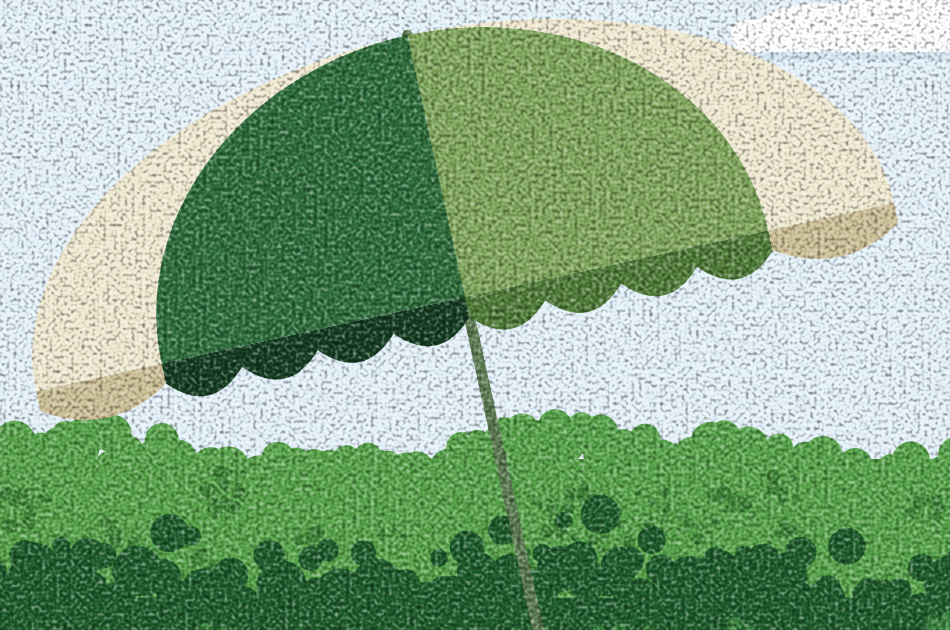
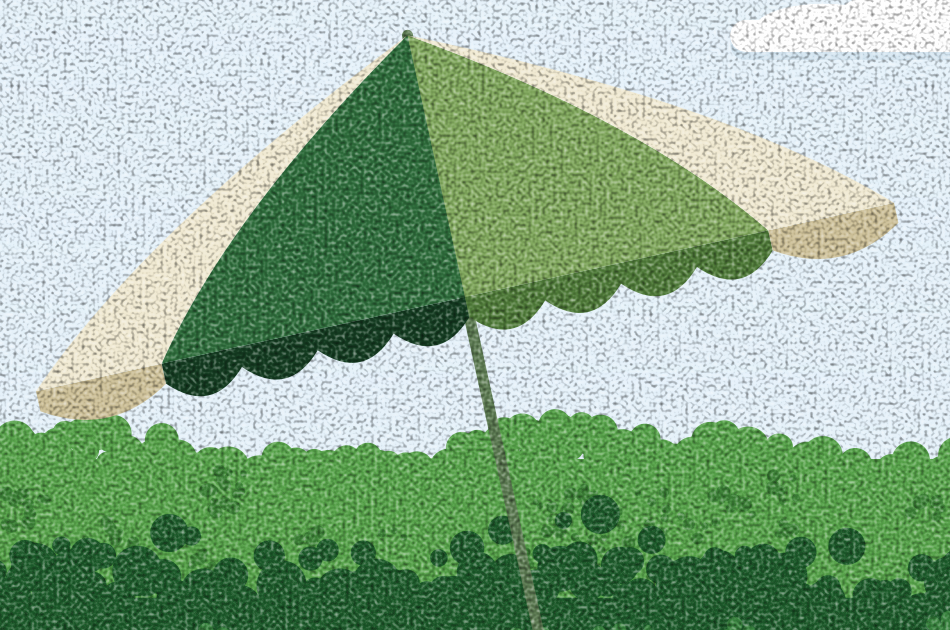
Parasols : toile tendue en pointe, plus un dôme
Les proportions relevées étaient justes — rx, ry, positions — mais la forme
ne l'était pas : des méridiens en quarts d'ellipse donnaient une coupole
ronde, un demi-ballon, et à encombrement égal un dôme rond a l'air plus gros
qu'un cône. D'où l'impression de parasols hors d'échelle alors que leurs
mesures collaient au modèle.

Le modèle est une toile tendue : les pentes filent presque droit du bord
vers le sommet, à peine bombées, et se rejoignent en pointe. Chaque méridien
est désormais une seule quadratique dont le point de contrôle est légèrement
au-dessus de la corde — une flèche d'un dixième de la hauteur, pas de la
moitié. Même encombrement, même relevé, silhouette triangulaire.

Claude-Session: https://claude.ai/code/session_015un2t2xRvThoKm9jAu6CXK

Changed region(s): [[0.0305, 0.0302, 0.9463, 0.6032]]

diff --git a/illustration/parasols.py b/illustration/parasols.py
@@ -528,17 +528,25 @@ def une_coupole(nom, cx, y_bord, rx, fx, fy, indent=4, n=4):
     sommet = (X0, Y0 - ry)
     jupe_h = 0.17 * ry
 
+    # LA PENTE EST PRESQUE DROITE, LE SOMMET EST UNE POINTE. Le premier essai
+    # prenait des quarts d'ellipse : une coupole ronde, un demi-ballon. Le
+    # modele est une TOILE TENDUE - ses pentes filent droit du bord vers le
+    # sommet, a peine bombees, et se rejoignent en pointe. Chaque meridien
+    # est donc une seule quadratique dont le controle est LEGEREMENT au-dessus
+    # de la corde : la fleche vaut un dixieme de la hauteur, pas la moitie.
+    def meridien(x_dep, vers_sommet=True):
+        Cq = T((x_dep + (X0 - x_dep) * 0.32, Y0 - ry * 0.50))
+        cible = T(sommet) if vers_sommet else T((x_dep, Y0))
+        return u'Q%.1f %.1f %.1f %.1f' % (Cq[0], Cq[1], cible[0], cible[1])
+
     toile, jupe = [], []
     for k in range(n):
         xa, xb = xs[k], xs[k + 1]
         A, B = T((xa, Y0)), T((xb, Y0))
-        montee = cubiques((X0, Y0), (xb - X0, 0.0), (0.0, -ry),
-                          0.0, math.pi / 2, T)
-        descente = cubiques((X0, Y0), (xa - X0, 0.0), (0.0, -ry),
-                            math.pi / 2, 0.0, T)
         toile.append((GORES[k % len(GORES)],
                       u'M%.1f %.1f L%.1f %.1f %s %s Z'
-                      % (A[0], A[1], B[0], B[1], montee, descente)))
+                      % (A[0], A[1], B[0], B[1],
+                         meridien(xb, True), meridien(xa, False))))
 
         # LA JUPE : le bord haut droit, puis des festons qui pendent. Le
         # nombre de festons suit la largeur du fuseau - les fuseaux du

diff --git a/illustration/METHODE.md b/illustration/METHODE.md
@@ -53,7 +53,7 @@ une fois l'image sous les yeux.
 
 | | |
 |---|---|
-| **Parasol** (4ᵉ référence, retenue) | une **coupole à festons** : 4 fuseaux par azimut (crème étroit / vert sombre / vert clair / crème), bombé **ry/rx = 0,61**, jupe à festons de 0,17 ry dans des tons **assombris** — c'est l'intérieur de la toile vu par en dessous. Mât penché d'un bloc, l'angle découle du relevé (pied et centre de toile mesurés). |
+| **Parasol** (4ᵉ référence, retenue) | une **toile tendue en pointe**, pas un dôme : pentes presque droites (flèche ≈ 0,1 × la hauteur), sommet pointu, ry/rx = 0,61. 4 fuseaux par azimut (crème étroit / vert sombre / vert clair / crème), jupe à festons de 0,17 ry en tons **assombris** — l'intérieur de la toile vu par en dessous. Mât penché d'un bloc, l'angle découle du relevé. |
 | **Parasol** (1ʳᵉ référence, conservé en code) | un **éventail** : demi-lune en secteurs égaux issus du milieu du bord droit — `un_eventail()`. |
 | **Bord bas** | une **droite** franche. Pas de feston, pas de vaguelette. |
 | **Contours** | **aucun**. Pas de liseré, pas de couture tracée, pas d'embout. Les secteurs ne sont que des changements de couleur. |
@@ -135,6 +135,12 @@ dilatait au lieu de réduire — normale intérieure prise à l'envers — et le
 mesurait une distance **non signée** : il affichait fièrement 19,00 px sur les
 quatre côtés, du mauvais côté. Il compare maintenant les **aires**, qui
 portent le signe.
+
+**À encombrement égal, un dôme rond a l'air plus gros qu'un cône.** Les
+coupoles en quarts d'ellipse paraissaient disproportionnées alors que rx et
+ry étaient justes : le modèle est une toile **tendue** — pentes presque
+droites, sommet en pointe. Chaque méridien est une quadratique dont le
+contrôle est à peine au-dessus de la corde.
 
 **Le modèle décide, pas la règle générale.** La serviette avait été construite
 en trapèze fuyant au nom du « rectangle à angles droits = plaque dressée ».
